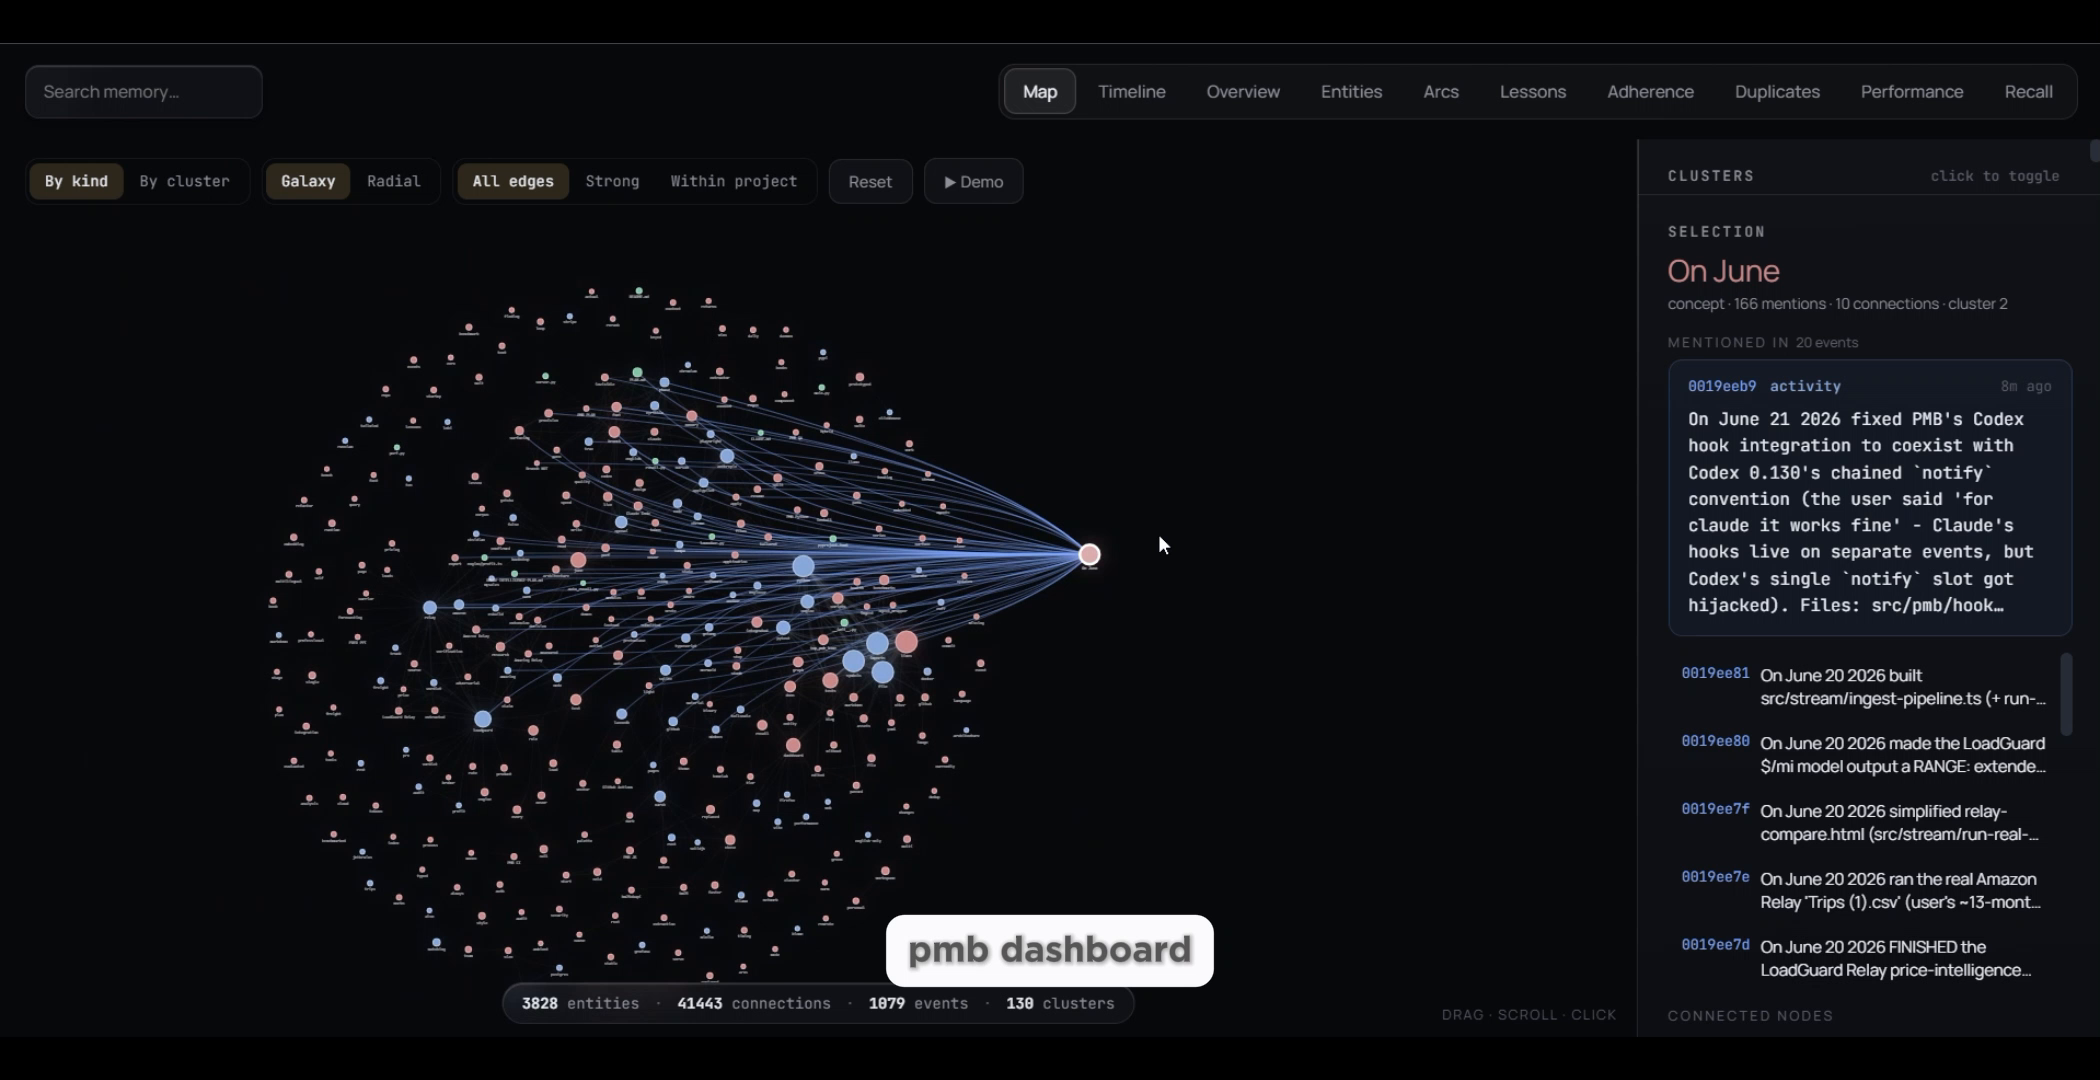
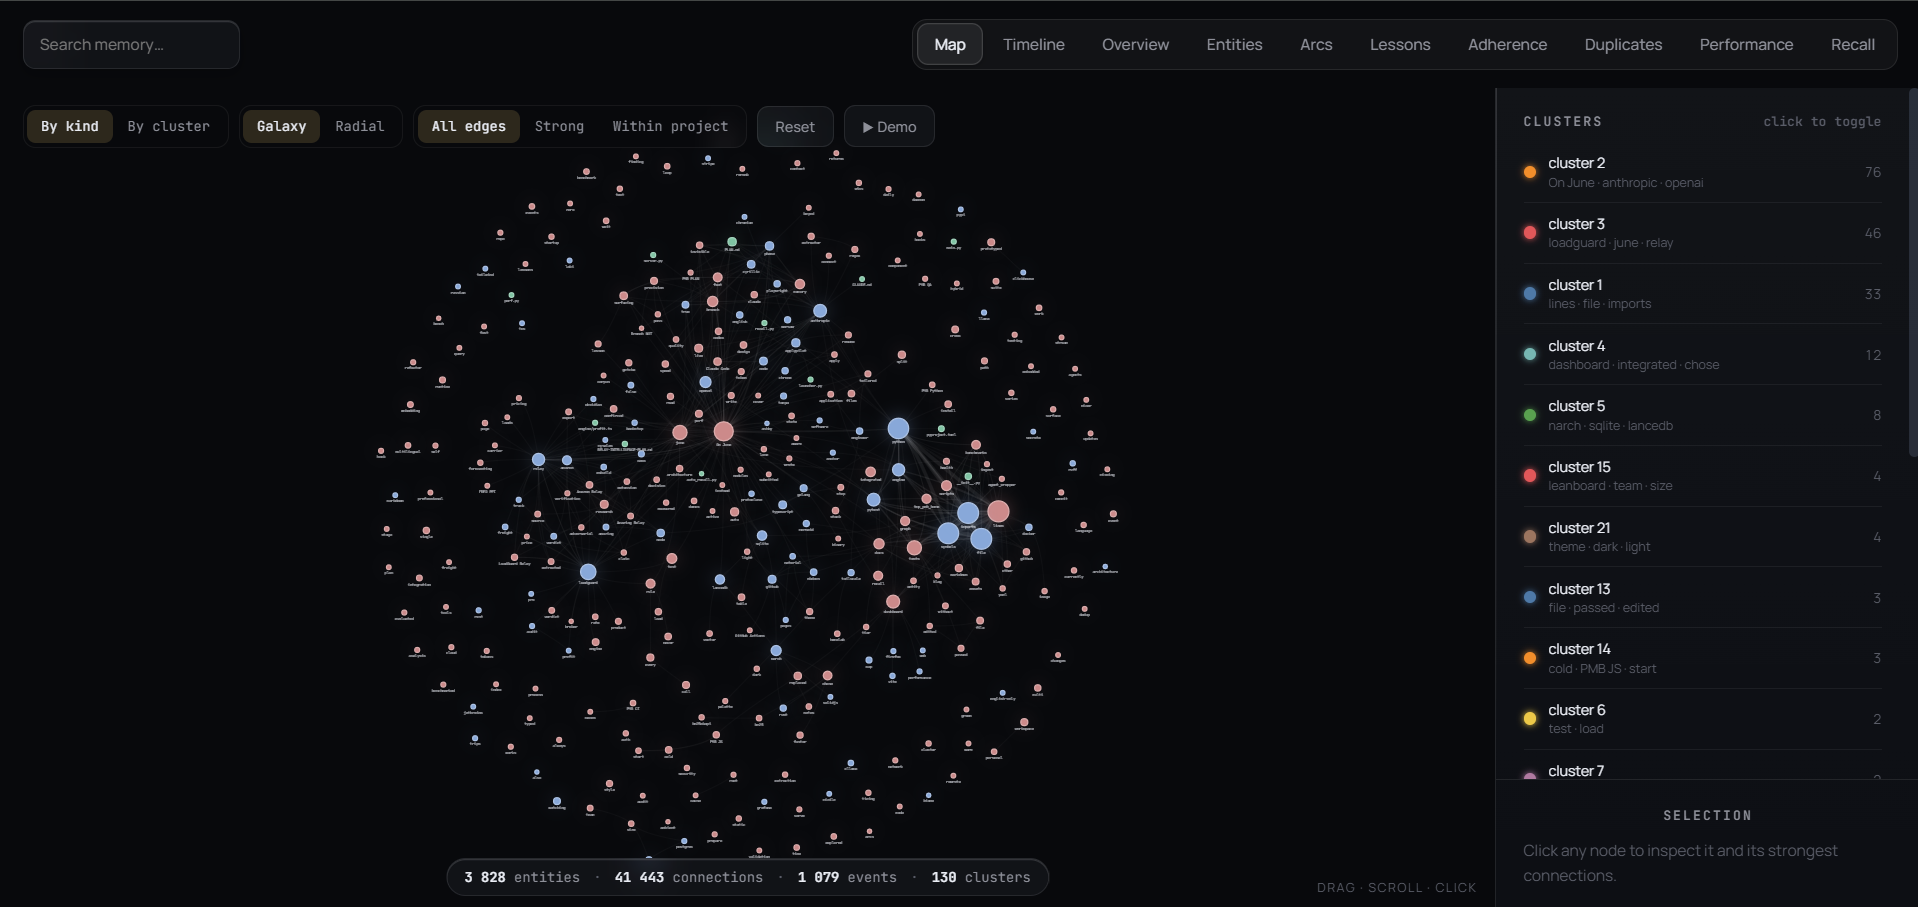
docs: dashboard GIF + screenshots in README, drop old image

diff --git a/README.md b/README.md
@@ -81,10 +81,6 @@ That's it - your agent now remembers. No account, no keys, nothing leaves your m
 
 *Timeline - your memory as a journal, newest first.*
 
-<img src="https://raw.githubusercontent.com/oleksiijko/pmb/main/docs/assets/dashboard-overview.png" width="820" alt="PMB dashboard - Overview (stats)">
-
-*Overview - the scale of one developer's memory, at a glance.*
-
 </div>
 
 ### Watch: 2-minute setup
@@ -179,7 +175,7 @@ flowchart LR
     A[Your agent] -->|MCP stdio| B[PMB MCP server]
     B --> C[Engine]
     C -->|read 35 ms| R[Hybrid recall<br/>BM25 + vector + graph + rerank]
-    C -->|write &lt; 1 ms| W[Async embed queue<br/>SQLite first, vectors later]
+    C -->|write under 1 ms| W[Async embed queue<br/>SQLite first, vectors later]
     R --> D[(SQLite)]
     R --> E[(LanceDB)]
     W --> D
@@ -372,10 +368,6 @@ with `pmb config set <key>` - they're hidden from `list`, not gated.
 
 `pmb dashboard` opens a local web UI on port 8765. Nothing leaves
 your machine.
-
-<div align="center">
-<img src="https://raw.githubusercontent.com/oleksiijko/pmb/main/docs/assets/08_dashboard.png" width="780" alt="PMB dashboard">
-</div>
 
 Nine tabs: **Map** (entity graph, live), **Timeline** (git-graph by
 project), **Overview**, **Entities**, **Arcs** (narrative threads),
